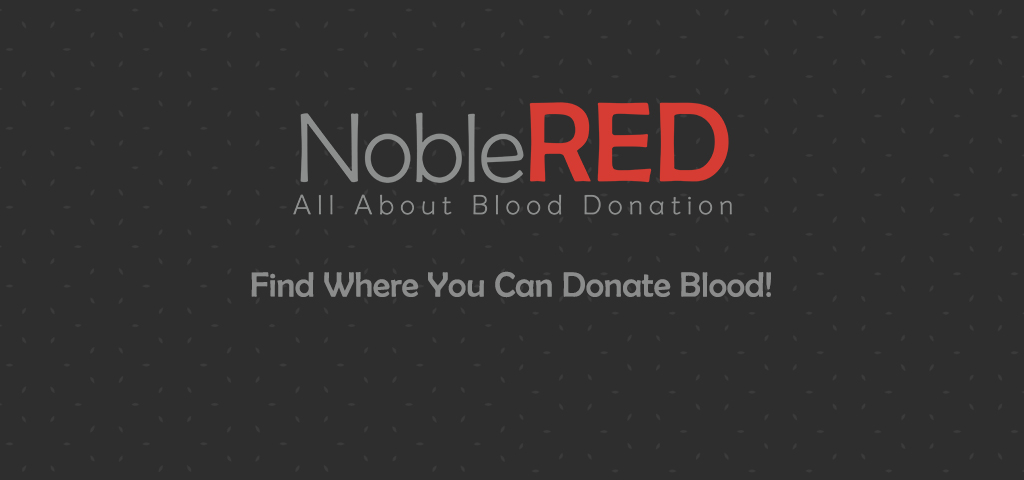
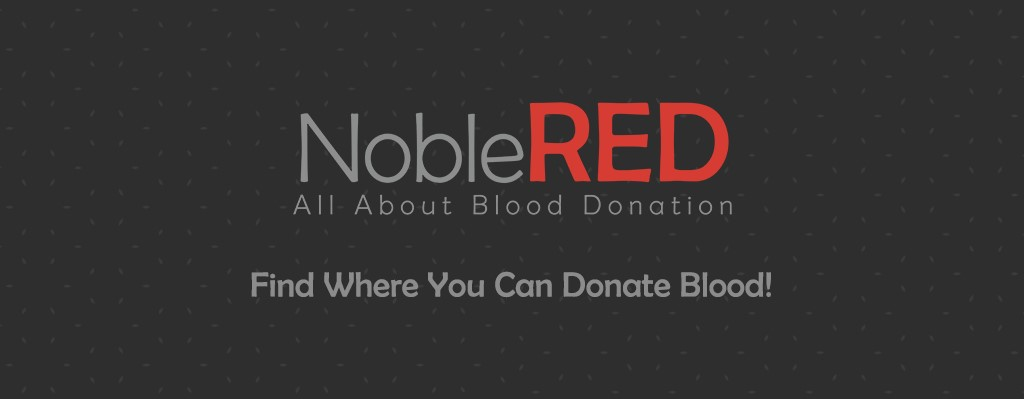
pop up menu item added

Changed region(s): [[0.2812, 0.2105, 0.7188, 0.5414], [0.2188, 0.6617, 0.75, 0.7519], [0.2188, 0.5714, 0.75, 0.6316]]

diff --git a/lib/pages/home.dart b/lib/pages/home.dart
@@ -1,5 +1,6 @@
 import 'package:flutter/material.dart';
 import 'package:carousel_pro/carousel_pro.dart';
+import 'package:nobel_red/Widgets/Constants.dart';
 
 class Home extends StatefulWidget {
   @override
@@ -37,32 +38,73 @@ class _HomeState extends State<Home> {
               ],
             ),
           ),
+          actions: <Widget>[
+            PopupMenuButton(
+              color: Color.fromRGBO(255, 255, 255, 0.8),
+              icon: Icon(Icons.menu),
+              shape: RoundedRectangleBorder(
+                  borderRadius: BorderRadius.circular(20)),
+              onSelected: choiceAction,
+              itemBuilder: (BuildContext context) {
+                return Constants.choices.map((String choice) {
+                  return PopupMenuItem(
+                    value: choice,
+                    child: Text(
+                      choice,
+                      style: TextStyle(
+                        fontFamily: 'DMSans',
+                        fontWeight: FontWeight.bold,
+                        fontSize: 18.0,
+                      ),
+                    ),
+                  );
+                }).toList();
+              },
+            ),
+          ],
         ),
-        body: Row(
-          mainAxisAlignment: MainAxisAlignment.center,
+        body: Column(
+          mainAxisAlignment: MainAxisAlignment.start,
           children: <Widget>[
-            SizedBox(
-              height: 250.0,
-              width: 360.0,
-              child: Carousel(
-                images: [
-                  ExactAssetImage('assets/header-image-1.jpg'),
-                  ExactAssetImage('assets/header-image-2.jpg'),
-                  ExactAssetImage('assets/header-image-3.jpg'),
+            Container(
+              child: Row(
+                mainAxisAlignment: MainAxisAlignment.center,
+                children: <Widget>[
+                  SizedBox(
+                    height: 200.0,
+                    width: 360.0,
+                    child: Carousel(
+                      images: [
+                        ExactAssetImage('assets/header-image-1.jpg'),
+                        ExactAssetImage('assets/header-image-2.jpg'),
+                        ExactAssetImage('assets/header-image-3.jpg'),
+                      ],
+                      autoplay: true,
+                      animationDuration: Duration(milliseconds: 1000),
+                      animationCurve: Curves.linearToEaseOut,
+                      borderRadius: false,
+                      showIndicator: false,
+                      boxFit: BoxFit.cover,
+                    ),
+                  ),
                 ],
-                autoplay: true,
-                animationDuration: Duration(milliseconds: 1000),
-                animationCurve: Curves.linearToEaseOut,
-                dotSize: 4.0,
-                dotSpacing: 15.0,
-                dotColor: Colors.grey[100],
-                indicatorBgPadding: 3.0,
-                borderRadius: false,
-                showIndicator: false,
-                boxFit: BoxFit.cover,
               ),
             ),
           ],
         ));
+  }
+}
+
+void choiceAction(String choice) {
+  //this is for the tasks doing from the
+  if (choice == Constants.posts) {
+    BuildContext context;
+    Navigator.pushReplacementNamed(context, '/posts');
+  } else if (choice == Constants.campaigns) {
+    print('campaigns');
+  } else if (choice == Constants.settings) {
+    print('settings');
+  } else {
+    print("signout");
   }
 }

diff --git a/lib/pages/login.dart b/lib/pages/login.dart
@@ -117,7 +117,9 @@ class _LoginState extends State<Login> {
 
               // facebook login button
               RaisedButton.icon(
-                onPressed: () {},
+                onPressed: () {
+                  Navigator.pushReplacementNamed(context, '/loginFacebook');
+                },
                 highlightColor: Colors.red[400],
                 highlightElevation: 10.0,
                 icon: Icon(FGTIcons.facebook_app_symbol),
@@ -131,7 +133,9 @@ class _LoginState extends State<Login> {
               ),
               //login with google button
               RaisedButton.icon(
-                onPressed: () {},
+                onPressed: () {
+                  Navigator.pushReplacementNamed(context, '/loginGoogle');
+                },
                 highlightColor: Colors.red[400],
                 highlightElevation: 10.0,
                 icon: Icon(FGTIcons.search),
@@ -144,7 +148,9 @@ class _LoginState extends State<Login> {
               ),
               //login with twitter button
               RaisedButton.icon(
-                onPressed: () {},
+                onPressed: () {
+                  Navigator.pushReplacementNamed(context, '/loginTwitter');
+                },
                 highlightColor: Colors.red[400],
                 highlightElevation: 10.0,
                 icon: Icon(FGTIcons.twitter__1_),

diff --git a/lib/pages/loginWithFacebook.dart b/lib/pages/loginWithFacebook.dart
@@ -1,0 +1,38 @@
+import 'package:flutter/material.dart';
+
+class LoginWithFacebook extends StatefulWidget {
+  @override
+  _LoginWithFacebookState createState() => _LoginWithFacebookState();
+}
+
+class _LoginWithFacebookState extends State<LoginWithFacebook> {
+  @override
+  Widget build(BuildContext context) {
+    return Scaffold(
+      backgroundColor: Colors.grey[300],
+      appBar: AppBar(
+        backgroundColor: Colors.red[700],
+        title: Center(
+          child: Row(
+            mainAxisAlignment: MainAxisAlignment.start,
+            children: <Widget>[
+              IconButton(
+                  onPressed: () {
+                    Navigator.pushReplacementNamed(context, '/login');
+                  },
+                  icon: Icon(Icons.arrow_back)),
+              Text(
+                'Register with Facebook',
+                style: TextStyle(
+                  fontFamily: 'DMSans',
+                  fontStyle: FontStyle.normal,
+                  fontWeight: FontWeight.normal,
+                ),
+              ),
+            ],
+          ),
+        ),
+      ),
+    );
+  }
+}

diff --git a/lib/pages/loginWithTwitter.dart b/lib/pages/loginWithTwitter.dart
@@ -1,0 +1,38 @@
+import 'package:flutter/material.dart';
+
+class LoginWithTwitter extends StatefulWidget {
+  @override
+  _LoginWithTwitterState createState() => _LoginWithTwitterState();
+}
+
+class _LoginWithTwitterState extends State<LoginWithTwitter> {
+  @override
+  Widget build(BuildContext context) {
+    return Scaffold(
+      backgroundColor: Colors.grey[300],
+      appBar: AppBar(
+        backgroundColor: Colors.red[700],
+        title: Center(
+          child: Row(
+            mainAxisAlignment: MainAxisAlignment.start,
+            children: <Widget>[
+              IconButton(
+                  onPressed: () {
+                    Navigator.pushReplacementNamed(context, '/login');
+                  },
+                  icon: Icon(Icons.arrow_back)),
+              Text(
+                'Register with Twitter',
+                style: TextStyle(
+                  fontFamily: 'DMSans',
+                  fontStyle: FontStyle.normal,
+                  fontWeight: FontWeight.normal,
+                ),
+              ),
+            ],
+          ),
+        ),
+      ),
+    );
+  }
+}

diff --git a/lib/pages/loginWithGoogle.dart b/lib/pages/loginWithGoogle.dart
@@ -1,0 +1,38 @@
+import 'package:flutter/material.dart';
+
+class LoginWithGoogle extends StatefulWidget {
+  @override
+  _LoginWithGoogleState createState() => _LoginWithGoogleState();
+}
+
+class _LoginWithGoogleState extends State<LoginWithGoogle> {
+  @override
+  Widget build(BuildContext context) {
+    return Scaffold(
+      backgroundColor: Colors.grey[300],
+      appBar: AppBar(
+        backgroundColor: Colors.red[700],
+        title: Center(
+          child: Row(
+            mainAxisAlignment: MainAxisAlignment.start,
+            children: <Widget>[
+              IconButton(
+                  onPressed: () {
+                    Navigator.pushReplacementNamed(context, '/login');
+                  },
+                  icon: Icon(Icons.arrow_back)),
+              Text(
+                'Register with Google',
+                style: TextStyle(
+                  fontFamily: 'DMSans',
+                  fontStyle: FontStyle.normal,
+                  fontWeight: FontWeight.normal,
+                ),
+              ),
+            ],
+          ),
+        ),
+      ),
+    );
+  }
+}

diff --git a/lib/main.dart b/lib/main.dart
@@ -2,6 +2,11 @@ import 'package:flutter/material.dart';
 import 'package:nobel_red/pages/home.dart';
 import 'package:nobel_red/pages/login.dart';
 import 'package:nobel_red/pages/welcome.dart';
+import 'package:nobel_red/pages/loginWithFacebook.dart';
+import 'package:nobel_red/pages/loginWithGoogle.dart';
+import 'package:nobel_red/pages/loginWithTwitter.dart';
+import 'package:nobel_red/pages/Posts.dart';
+import 'package:nobel_red/pages/campaigns.dart';
 
 void main() => runApp(MaterialApp(
       initialRoute: '/',
@@ -9,5 +14,10 @@ void main() => runApp(MaterialApp(
         '/': (context) => Welcome(),
         '/home': (context) => Home(),
         '/login': (context) => Login(),
+        '/loginFacebook': (context) => LoginWithFacebook(),
+        '/loginGoogle': (context) => LoginWithGoogle(),
+        '/loginTwitter': (context) => LoginWithTwitter(),
+        '/posts': (context) => Posts(),
+        '/campaigns': (context) => Campaigns(),
       },
     ));

diff --git a/lib/pages/welcome.dart b/lib/pages/welcome.dart
@@ -16,9 +16,12 @@ class _WelcomeState extends State<Welcome> {
           mainAxisAlignment: MainAxisAlignment.center,
           children: <Widget>[
             // SizedBox(height: 200.0),
-            Image(
-              image: AssetImage('assets/logo.png'),
-              // fit: BoxFit.cover,
+            Center(
+              child: Image(
+                width: 300.0,
+                image: AssetImage('assets/logo.png'),
+                // fit: BoxFit.cover,
+              ),
             ),
 
             SizedBox(height: 100.0),

diff --git a/lib/pages/Posts.dart b/lib/pages/Posts.dart
@@ -1,0 +1,21 @@
+import 'package:flutter/material.dart';
+
+class Posts extends StatefulWidget {
+  @override
+  _PostsState createState() => _PostsState();
+}
+
+class _PostsState extends State<Posts> {
+  @override
+  Widget build(BuildContext context) {
+    return Scaffold(
+      appBar: AppBar(
+        title: Center(
+          child: Row(
+            children: <Widget>[Text('Posts')],
+          ),
+        ),
+      ),
+    );
+  }
+}

diff --git a/lib/pages/campaigns.dart b/lib/pages/campaigns.dart
@@ -1,0 +1,13 @@
+import 'package:flutter/material.dart';
+
+class Campaigns extends StatefulWidget {
+  @override
+  _CampaignsState createState() => _CampaignsState();
+}
+
+class _CampaignsState extends State<Campaigns> {
+  @override
+  Widget build(BuildContext context) {
+    return Container();
+  }
+}

diff --git a/lib/Widgets/Constants.dart b/lib/Widgets/Constants.dart
@@ -1,0 +1,8 @@
+class Constants {
+  static const String posts = 'Posts';
+  static const String campaigns = 'Camapigns';
+  static const String settings = 'Settings';
+  static const String signout = 'SignOut';
+
+  static const Set<String> choices = {posts, campaigns, settings, signout};
+}
